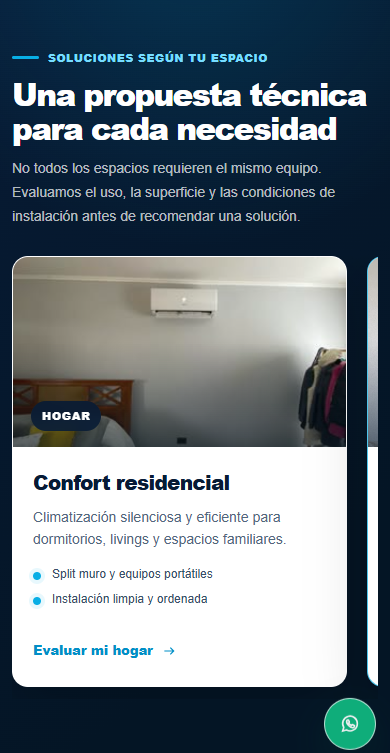
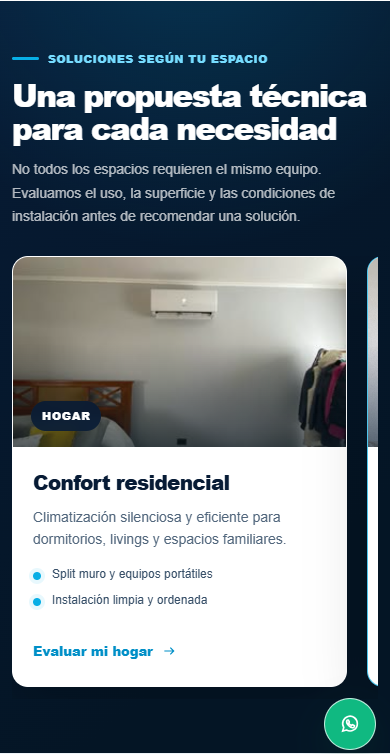
feat: add interactive service catalog tabs with custom imagery and mobile QA suites

diff --git a/dist/index.html b/dist/index.html
@@ -24,6 +24,9 @@
     <symbol id="i-gear" viewBox="0 0 24 24"><circle cx="12" cy="12" r="3.2"/><path d="M12 2.5v2.2M12 19.3v2.2M21.5 12h-2.2M4.7 12H2.5m16.2-6.7-1.6 1.6M6.9 17.1l-1.6 1.6m13.4 0-1.6-1.6M6.9 6.9 5.3 5.3"/><circle cx="12" cy="12" r="7.1"/></symbol>
     <symbol id="i-wrench" viewBox="0 0 24 24"><path d="M14.7 5.2a5.1 5.1 0 0 0 4.4 6.9L11 20.2a2 2 0 0 1-2.8 0l-4.4-4.4a2 2 0 0 1 0-2.8l8.1-8.1a5.1 5.1 0 0 0 2.8.3Z"/><path d="m5.7 14.3 4 4"/></symbol>
     <symbol id="i-arrows" viewBox="0 0 24 24"><path d="M7 7h13m-4-4 4 4-4 4M17 17H4m4 4-4-4 4-4"/></symbol>
+    <symbol id="i-solar" viewBox="0 0 24 24"><circle cx="18" cy="6" r="2.5"/><path d="M18 1.5v1M18 9.5v1M13.5 6h1M21.5 6h1M14.8 2.8l.7.7M20.5 8.5l.7.7M4 10h12l2 10H2l2-10Zm1.4 3.3h11.2M4.7 16.7h12.6M8 10l-.8 10M12 10v10M16 10l.8 10"/></symbol>
+    <symbol id="i-bolt" viewBox="0 0 24 24"><path d="m13.5 2-8 11h6l-1 9 8-12h-6l1-8Z"/></symbol>
+    <symbol id="i-pump" viewBox="0 0 24 24"><path d="M4 9h10v10H4zM14 12h3.5a2.5 2.5 0 0 1 2.5 2.5V19M7 9V6h4v3M2 13h2M2 17h2M8 13.2c1.2 1.3 1.8 2.2 1.8 3a1.8 1.8 0 0 1-3.6 0c0-.8.6-1.7 1.8-3Z"/></symbol>
     <symbol id="i-arrow" viewBox="0 0 24 24"><path d="M5 12h14m-5-5 5 5-5 5"/></symbol>
     <symbol id="i-menu" viewBox="0 0 24 24"><path d="M4 7h16M4 12h16M4 17h16"/></symbol>
   </svg>
@@ -94,21 +97,55 @@
     <section class="services" id="servicios">
       <div class="wide-shell">
         <div class="compact-heading">
-          <h2>Nuestros servicios</h2><span></span><p>Soluciones completas de climatización, con atención local y profesional.</p>
+          <h2>Nuestros servicios</h2><span></span><p>Soluciones técnicas organizadas por especialidad.</p>
         </div>
-        <div class="services-grid">
-          <a class="service-card" href="https://wa.me/56932630625?text=Hola%20BYN%20Servicios.%20Quisiera%20cotizar%20una%20instalaci%C3%B3n." target="_blank" rel="noopener">
-            <span class="service-icon"><svg><use href="#i-ac"></use></svg></span><span class="service-copy"><strong>Instalación</strong><small>Montaje profesional de equipos en hogares y empresas.</small></span><svg class="card-arrow"><use href="#i-arrow"></use></svg>
-          </a>
-          <a class="service-card" href="https://wa.me/56932630625?text=Hola%20BYN%20Servicios.%20Quisiera%20cotizar%20una%20mantenci%C3%B3n." target="_blank" rel="noopener">
-            <span class="service-icon"><svg><use href="#i-gear"></use></svg></span><span class="service-copy"><strong>Mantención</strong><small>Limpieza y revisión para un funcionamiento eficiente.</small></span><svg class="card-arrow"><use href="#i-arrow"></use></svg>
-          </a>
-          <a class="service-card" href="https://wa.me/56932630625?text=Hola%20BYN%20Servicios.%20Mi%20equipo%20presenta%20una%20falla." target="_blank" rel="noopener">
-            <span class="service-icon"><svg><use href="#i-wrench"></use></svg></span><span class="service-copy"><strong>Reparación</strong><small>Diagnóstico y solución de fallas en aire acondicionado.</small></span><svg class="card-arrow"><use href="#i-arrow"></use></svg>
-          </a>
-          <a class="service-card" href="https://wa.me/56932630625?text=Hola%20BYN%20Servicios.%20Quisiera%20evaluar%20la%20reubicaci%C3%B3n%20de%20un%20equipo." target="_blank" rel="noopener">
-            <span class="service-icon"><svg><use href="#i-arrows"></use></svg></span><span class="service-copy"><strong>Reubicación</strong><small>Traslado seguro e instalación en una nueva ubicación.</small></span><svg class="card-arrow"><use href="#i-arrow"></use></svg>
-          </a>
+        <div class="service-catalog">
+          <div class="service-tabs" role="tablist" aria-label="Áreas de servicio">
+            <button class="service-tab is-active" id="service-tab-clima" type="button" role="tab" aria-selected="true" aria-controls="service-panel-clima" data-service-category="clima"><svg aria-hidden="true"><use href="#i-ac"></use></svg>Aire acondicionado</button>
+            <button class="service-tab" id="service-tab-solar" type="button" role="tab" aria-selected="false" aria-controls="service-panel-solar" data-service-category="solar" tabindex="-1"><svg aria-hidden="true"><use href="#i-solar"></use></svg>Paneles solares</button>
+            <button class="service-tab" id="service-tab-electricidad" type="button" role="tab" aria-selected="false" aria-controls="service-panel-electricidad" data-service-category="electricidad" tabindex="-1"><svg aria-hidden="true"><use href="#i-bolt"></use></svg>Sistemas eléctricos</button>
+            <button class="service-tab" id="service-tab-bombas" type="button" role="tab" aria-selected="false" aria-controls="service-panel-bombas" data-service-category="bombas" tabindex="-1"><svg aria-hidden="true"><use href="#i-pump"></use></svg>Bombas y equipos</button>
+          </div>
+
+          <div class="service-panel is-active" id="service-panel-clima" role="tabpanel" aria-labelledby="service-tab-clima" data-service-panel="clima">
+            <div class="service-panel-heading"><div><span class="service-panel-icon"><svg aria-hidden="true"><use href="#i-ac"></use></svg></span><span><strong>Aire acondicionado</strong><small>Confort eficiente para hogares, comercios e industria.</small></span></div><a href="https://wa.me/56932630625?text=Hola%20BYN%20Servicios.%20Necesito%20asesor%C3%ADa%20en%20aire%20acondicionado." target="_blank" rel="noopener">Consultar esta área <svg aria-hidden="true"><use href="#i-arrow"></use></svg></a></div>
+            <div class="services-grid">
+              <a class="service-card" href="https://wa.me/56932630625?text=Hola%20BYN%20Servicios.%20Quisiera%20cotizar%20una%20instalaci%C3%B3n%20de%20aire%20acondicionado." target="_blank" rel="noopener"><span class="service-icon"><svg><use href="#i-ac"></use></svg></span><span class="service-copy"><strong>Instalación</strong><small>Montaje profesional de equipos en hogares y empresas.</small></span><svg class="card-arrow"><use href="#i-arrow"></use></svg></a>
+              <a class="service-card" href="https://wa.me/56932630625?text=Hola%20BYN%20Servicios.%20Quisiera%20cotizar%20una%20mantenci%C3%B3n%20de%20aire%20acondicionado." target="_blank" rel="noopener"><span class="service-icon"><svg><use href="#i-gear"></use></svg></span><span class="service-copy"><strong>Mantención</strong><small>Limpieza y revisión para un funcionamiento eficiente.</small></span><svg class="card-arrow"><use href="#i-arrow"></use></svg></a>
+              <a class="service-card" href="https://wa.me/56932630625?text=Hola%20BYN%20Servicios.%20Mi%20aire%20acondicionado%20presenta%20una%20falla." target="_blank" rel="noopener"><span class="service-icon"><svg><use href="#i-wrench"></use></svg></span><span class="service-copy"><strong>Reparación</strong><small>Diagnóstico y solución de fallas en equipos de climatización.</small></span><svg class="card-arrow"><use href="#i-arrow"></use></svg></a>
+              <a class="service-card" href="https://wa.me/56932630625?text=Hola%20BYN%20Servicios.%20Quisiera%20reubicar%20un%20equipo%20de%20aire%20acondicionado." target="_blank" rel="noopener"><span class="service-icon"><svg><use href="#i-arrows"></use></svg></span><span class="service-copy"><strong>Reubicación</strong><small>Traslado seguro e instalación en una nueva ubicación.</small></span><svg class="card-arrow"><use href="#i-arrow"></use></svg></a>
+            </div>
+          </div>
+
+          <div class="service-panel" id="service-panel-solar" role="tabpanel" aria-labelledby="service-tab-solar" data-service-panel="solar" hidden>
+            <div class="service-panel-heading"><div><span class="service-panel-icon"><svg aria-hidden="true"><use href="#i-solar"></use></svg></span><span><strong>Paneles solares</strong><small>Soluciones para aprovechar y mantener tu sistema de energía solar.</small></span></div><a href="https://wa.me/56932630625?text=Hola%20BYN%20Servicios.%20Necesito%20asesor%C3%ADa%20en%20paneles%20solares." target="_blank" rel="noopener">Consultar esta área <svg aria-hidden="true"><use href="#i-arrow"></use></svg></a></div>
+            <div class="services-grid">
+              <a class="service-card" href="https://wa.me/56932630625?text=Hola%20BYN%20Servicios.%20Quisiera%20cotizar%20la%20instalaci%C3%B3n%20de%20paneles%20solares." target="_blank" rel="noopener"><span class="service-icon"><svg><use href="#i-solar"></use></svg></span><span class="service-copy"><strong>Instalación solar</strong><small>Montaje del sistema según las condiciones de cada espacio.</small></span><svg class="card-arrow"><use href="#i-arrow"></use></svg></a>
+              <a class="service-card" href="https://wa.me/56932630625?text=Hola%20BYN%20Servicios.%20Quisiera%20cotizar%20mantenci%C3%B3n%20de%20paneles%20solares." target="_blank" rel="noopener"><span class="service-icon"><svg><use href="#i-gear"></use></svg></span><span class="service-copy"><strong>Mantención</strong><small>Limpieza, inspección y cuidado preventivo de paneles.</small></span><svg class="card-arrow"><use href="#i-arrow"></use></svg></a>
+              <a class="service-card" href="https://wa.me/56932630625?text=Hola%20BYN%20Servicios.%20Necesito%20revisar%20el%20rendimiento%20de%20mi%20sistema%20solar." target="_blank" rel="noopener"><span class="service-icon"><svg><use href="#i-bolt"></use></svg></span><span class="service-copy"><strong>Revisión de rendimiento</strong><small>Evaluación del funcionamiento y desempeño del sistema.</small></span><svg class="card-arrow"><use href="#i-arrow"></use></svg></a>
+              <a class="service-card" href="https://wa.me/56932630625?text=Hola%20BYN%20Servicios.%20Mi%20sistema%20solar%20presenta%20una%20falla." target="_blank" rel="noopener"><span class="service-icon"><svg><use href="#i-wrench"></use></svg></span><span class="service-copy"><strong>Diagnóstico</strong><small>Revisión técnica para detectar fallas y puntos de mejora.</small></span><svg class="card-arrow"><use href="#i-arrow"></use></svg></a>
+            </div>
+          </div>
+
+          <div class="service-panel" id="service-panel-electricidad" role="tabpanel" aria-labelledby="service-tab-electricidad" data-service-panel="electricidad" hidden>
+            <div class="service-panel-heading"><div><span class="service-panel-icon"><svg aria-hidden="true"><use href="#i-bolt"></use></svg></span><span><strong>Sistemas eléctricos</strong><small>Instalaciones y mantenimiento eléctrico para viviendas y empresas.</small></span></div><a href="https://wa.me/56932630625?text=Hola%20BYN%20Servicios.%20Necesito%20asesor%C3%ADa%20en%20un%20sistema%20el%C3%A9ctrico." target="_blank" rel="noopener">Consultar esta área <svg aria-hidden="true"><use href="#i-arrow"></use></svg></a></div>
+            <div class="services-grid">
+              <a class="service-card" href="https://wa.me/56932630625?text=Hola%20BYN%20Servicios.%20Necesito%20un%20servicio%20de%20electricidad%20domiciliaria." target="_blank" rel="noopener"><span class="service-icon"><svg><use href="#i-home"></use></svg></span><span class="service-copy"><strong>Electricidad domiciliaria</strong><small>Soluciones seguras para viviendas y espacios residenciales.</small></span><svg class="card-arrow"><use href="#i-arrow"></use></svg></a>
+              <a class="service-card" href="https://wa.me/56932630625?text=Hola%20BYN%20Servicios.%20Necesito%20un%20servicio%20de%20electricidad%20industrial." target="_blank" rel="noopener"><span class="service-icon"><svg><use href="#i-bolt"></use></svg></span><span class="service-copy"><strong>Electricidad industrial</strong><small>Soluciones para instalaciones comerciales e industriales.</small></span><svg class="card-arrow"><use href="#i-arrow"></use></svg></a>
+              <a class="service-card" href="https://wa.me/56932630625?text=Hola%20BYN%20Servicios.%20Necesito%20revisar%20o%20instalar%20un%20tablero%20el%C3%A9ctrico." target="_blank" rel="noopener"><span class="service-icon"><svg><use href="#i-gear"></use></svg></span><span class="service-copy"><strong>Tableros eléctricos</strong><small>Instalación, ordenamiento, revisión y mantenimiento.</small></span><svg class="card-arrow"><use href="#i-arrow"></use></svg></a>
+              <a class="service-card" href="https://wa.me/56932630625?text=Hola%20BYN%20Servicios.%20Necesito%20diagnosticar%20una%20falla%20el%C3%A9ctrica." target="_blank" rel="noopener"><span class="service-icon"><svg><use href="#i-wrench"></use></svg></span><span class="service-copy"><strong>Diagnóstico y reparación</strong><small>Detección y solución de fallas en la instalación eléctrica.</small></span><svg class="card-arrow"><use href="#i-arrow"></use></svg></a>
+            </div>
+          </div>
+
+          <div class="service-panel" id="service-panel-bombas" role="tabpanel" aria-labelledby="service-tab-bombas" data-service-panel="bombas" hidden>
+            <div class="service-panel-heading"><div><span class="service-panel-icon"><svg aria-hidden="true"><use href="#i-pump"></use></svg></span><span><strong>Bombas y equipos</strong><small>Revisión técnica para cuidar la continuidad de operación.</small></span></div><a href="https://wa.me/56932630625?text=Hola%20BYN%20Servicios.%20Necesito%20asesor%C3%ADa%20para%20una%20bomba%20o%20equipo." target="_blank" rel="noopener">Consultar esta área <svg aria-hidden="true"><use href="#i-arrow"></use></svg></a></div>
+            <div class="services-grid">
+              <a class="service-card" href="https://wa.me/56932630625?text=Hola%20BYN%20Servicios.%20Quisiera%20cotizar%20mantenci%C3%B3n%20de%20una%20bomba." target="_blank" rel="noopener"><span class="service-icon"><svg><use href="#i-gear"></use></svg></span><span class="service-copy"><strong>Mantención de bombas</strong><small>Revisión preventiva para favorecer una operación estable.</small></span><svg class="card-arrow"><use href="#i-arrow"></use></svg></a>
+              <a class="service-card" href="https://wa.me/56932630625?text=Hola%20BYN%20Servicios.%20Necesito%20reparar%20una%20bomba." target="_blank" rel="noopener"><span class="service-icon"><svg><use href="#i-wrench"></use></svg></span><span class="service-copy"><strong>Reparación de bombas</strong><small>Diagnóstico técnico y solución de fallas operativas.</small></span><svg class="card-arrow"><use href="#i-arrow"></use></svg></a>
+              <a class="service-card" href="https://wa.me/56932630625?text=Hola%20BYN%20Servicios.%20Necesito%20revisar%20un%20motor%20o%20equipo%20el%C3%A9ctrico." target="_blank" rel="noopener"><span class="service-icon"><svg><use href="#i-bolt"></use></svg></span><span class="service-copy"><strong>Revisión de equipos</strong><small>Inspección eléctrica y mecánica de componentes asociados.</small></span><svg class="card-arrow"><use href="#i-arrow"></use></svg></a>
+              <a class="service-card" href="https://wa.me/56932630625?text=Hola%20BYN%20Servicios.%20Necesito%20la%20puesta%20en%20marcha%20de%20una%20bomba%20o%20equipo." target="_blank" rel="noopener"><span class="service-icon"><svg><use href="#i-pump"></use></svg></span><span class="service-copy"><strong>Puesta en marcha</strong><small>Comprobación del funcionamiento antes de iniciar la operación.</small></span><svg class="card-arrow"><use href="#i-arrow"></use></svg></a>
+            </div>
+          </div>
         </div>
       </div>
     </section>

diff --git a/dist/styles.css b/dist/styles.css
@@ -87,20 +87,67 @@ h1 em { color: var(--cyan); font-style: normal; }
 .hero .overline { margin-bottom: 20px; color: #63d8ff; font-size: 13px; letter-spacing: .13em; }
 .hero .overline > span { width: 42px; height: 4px; box-shadow: 0 0 15px rgba(231,25,114,.38); }
 
-.services { padding: 32px 0 36px; border-top: 1px solid #f1f5f7; background: #fff; }
-.compact-heading { min-height: 32px; margin-bottom: 8px; display: flex; align-items: center; gap: 13px; }
+.services { padding: 42px 0 46px; border-top: 1px solid #f1f5f7; background: #fff; }
+.compact-heading { min-height: 32px; margin-bottom: 20px; display: flex; align-items: center; gap: 13px; }
 .compact-heading h2 { margin: 0; color: var(--navy); font-size: 22px; font-weight: 800; letter-spacing: -.035em; line-height: 1.1; white-space: nowrap; }
 .compact-heading > span { width: 38px; height: 2px; flex: 0 0 auto; background: var(--cyan); }
 .compact-heading > p { margin: 1px 0 0; color: #72849a; font-size: 9.5px; }
+.service-catalog { overflow: hidden; border: 1px solid #dfe9ef; border-radius: 16px; background: #f8fbfd; box-shadow: 0 12px 30px rgba(20,58,85,.055); }
+.service-tabs { padding: 8px; display: grid; grid-template-columns: repeat(4, minmax(0, 1fr)); gap: 7px; background: #eef5f9; }
+.service-tab { min-width: 0; min-height: 48px; padding: 10px 14px; border: 0; border-radius: 10px; display: flex; align-items: center; justify-content: center; gap: 9px; color: #496176; background: transparent; font: 700 12px/1.2 Manrope, sans-serif; cursor: pointer; transition: color .18s ease, background .18s ease, box-shadow .18s ease; }
+.service-tab svg { width: 21px; height: 21px; flex: 0 0 auto; fill: none; stroke: currentColor; stroke-width: 1.8; stroke-linecap: round; stroke-linejoin: round; }
+.service-tab:hover { color: var(--navy); background: rgba(255,255,255,.72); }
+.service-tab.is-active { color: #fff; background: var(--navy); box-shadow: 0 7px 17px rgba(7,27,53,.2); }
+.service-panel { padding: 20px; background: #fff; }
+.service-panel[hidden] { display: none; }
+.service-panel.is-active { animation: service-panel-reveal .34s ease both; }
+.service-panel-heading { margin-bottom: 17px; display: flex; align-items: center; justify-content: space-between; gap: 24px; }
+.service-panel-heading > div { min-width: 0; display: flex; align-items: center; gap: 12px; }
+.service-panel-icon { width: 40px; height: 40px; flex: 0 0 auto; border-radius: 11px; display: grid; place-items: center; color: var(--cyan); background: var(--cyan-soft); }
+.service-panel-icon svg { width: 23px; height: 23px; fill: none; stroke: currentColor; stroke-width: 1.8; stroke-linecap: round; stroke-linejoin: round; }
+.service-panel-heading > div > span:last-child { min-width: 0; display: grid; }
+.service-panel-heading strong { color: var(--navy); font-size: 16px; font-weight: 800; letter-spacing: -.02em; }
+.service-panel-heading small { margin-top: 2px; color: var(--muted); font-size: 11px; line-height: 1.4; }
+.service-panel-heading > a { min-height: 38px; padding: 8px 13px; flex: 0 0 auto; border: 1px solid #d5e3eb; border-radius: 8px; display: flex; align-items: center; gap: 7px; color: var(--navy); background: #fff; font-size: 10.5px; font-weight: 800; transition: border-color .18s ease, color .18s ease; }
+.service-panel-heading > a:hover { border-color: var(--cyan); color: var(--cyan-dark); }
+.service-panel-heading > a svg { width: 14px; height: 14px; fill: none; stroke: currentColor; stroke-width: 1.8; stroke-linecap: round; stroke-linejoin: round; }
 .services-grid { display: grid; grid-template-columns: repeat(4, 1fr); gap: 18px; }
-.service-card { min-height: 96px; padding: 16px 16px; border: 1px solid var(--line); border-radius: 11px; display: flex; align-items: center; gap: 15px; background: #fff; box-shadow: 0 6px 17px rgba(20,58,85,.035); transition: transform .18s ease, border-color .18s ease, box-shadow .18s ease; }
-.service-card:hover { border-color: rgba(8,174,229,.45); box-shadow: 0 12px 25px rgba(20,58,85,.09); transform: translateY(-3px); }
-.service-icon { width: 52px; height: 52px; flex: 0 0 auto; border-radius: 50%; display: grid; place-items: center; color: var(--cyan); background: var(--cyan-soft); }
-.service-icon svg { width: 28px; height: 28px; fill: none; stroke: currentColor; stroke-width: 1.75; stroke-linecap: round; stroke-linejoin: round; }
-.service-copy { min-width: 0; display: grid; }
-.service-copy strong { font-size: 14px; font-weight: 800; }
-.service-copy small { margin-top: 4px; color: var(--muted); font-size: 9.5px; line-height: 1.4; }
-.card-arrow { width: 16px; height: 16px; margin-left: auto; flex: 0 0 auto; fill: none; stroke: #9fb0bf; stroke-width: 1.6; stroke-linecap: round; stroke-linejoin: round; }
+.service-card { position: relative; min-height: 270px; padding: 174px 17px 18px; border: 1px solid var(--line); border-radius: 13px; display: flex; align-items: flex-start; gap: 12px; overflow: hidden; background: #fff; box-shadow: 0 7px 20px rgba(20,58,85,.055); transition: transform .24s ease, border-color .24s ease, box-shadow .24s ease; }
+.service-card::before { content: ""; position: absolute; z-index: 0; top: 0; right: 0; left: 0; height: 152px; background-position: center; background-size: cover; transform: scale(1.001); transition: transform .5s cubic-bezier(.2,.7,.2,1), filter .3s ease; }
+.service-card::after { content: ""; position: absolute; z-index: 1; top: 100px; right: 0; left: 0; height: 53px; pointer-events: none; background: linear-gradient(180deg, transparent, rgba(3,20,38,.3)); }
+.service-card:hover { border-color: rgba(8,174,229,.5); box-shadow: 0 16px 32px rgba(20,58,85,.13); transform: translateY(-5px); }
+.service-card:hover::before { transform: scale(1.055); filter: saturate(1.04); }
+.service-icon { position: absolute; z-index: 2; top: 128px; left: 16px; width: 47px; height: 47px; flex: 0 0 auto; border: 3px solid #fff; border-radius: 50%; display: grid; place-items: center; color: var(--cyan); background: var(--cyan-soft); box-shadow: 0 6px 16px rgba(7,27,53,.15); }
+.service-icon svg { width: 24px; height: 24px; fill: none; stroke: currentColor; stroke-width: 1.75; stroke-linecap: round; stroke-linejoin: round; }
+.service-copy { min-width: 0; padding-right: 13px; display: grid; }
+.service-copy strong { color: var(--navy); font-size: 15px; font-weight: 800; letter-spacing: -.02em; line-height: 1.25; }
+.service-copy small { margin-top: 6px; color: var(--muted); font-size: 11.5px; line-height: 1.48; }
+.card-arrow { position: absolute; right: 15px; bottom: 18px; width: 16px; height: 16px; flex: 0 0 auto; fill: none; stroke: #9fb0bf; stroke-width: 1.6; stroke-linecap: round; stroke-linejoin: round; transition: stroke .2s ease, transform .2s ease; }
+.service-card:hover .card-arrow { stroke: var(--cyan); transform: translateX(3px); }
+.service-panel.is-active .service-card { animation: service-card-rise .38s ease both; }
+.service-panel.is-active .service-card:nth-child(2) { animation-delay: .055s; }
+.service-panel.is-active .service-card:nth-child(3) { animation-delay: .11s; }
+.service-panel.is-active .service-card:nth-child(4) { animation-delay: .165s; }
+
+[data-service-panel="clima"] .service-card:nth-child(1)::before { background-image: url("assets/servicio-clima-instalacion.webp"); }
+[data-service-panel="clima"] .service-card:nth-child(2)::before { background-image: url("assets/servicio-clima-mantencion.webp"); }
+[data-service-panel="clima"] .service-card:nth-child(3)::before { background-image: url("assets/servicio-clima-reparacion.webp"); }
+[data-service-panel="clima"] .service-card:nth-child(4)::before { background-image: url("assets/servicio-clima-reubicacion.webp"); }
+[data-service-panel="solar"] .service-card:nth-child(1)::before { background-image: url("assets/servicio-solar-instalacion.webp"); }
+[data-service-panel="solar"] .service-card:nth-child(2)::before { background-image: url("assets/servicio-solar-mantencion.webp"); }
+[data-service-panel="solar"] .service-card:nth-child(3)::before { background-image: url("assets/servicio-solar-rendimiento.webp"); }
+[data-service-panel="solar"] .service-card:nth-child(4)::before { background-image: url("assets/servicio-solar-diagnostico.webp"); }
+[data-service-panel="electricidad"] .service-card:nth-child(1)::before { background-image: url("assets/servicio-electrico-domiciliario.webp"); }
+[data-service-panel="electricidad"] .service-card:nth-child(2)::before { background-image: url("assets/servicio-electrico-industrial.webp"); }
+[data-service-panel="electricidad"] .service-card:nth-child(3)::before { background-image: url("assets/servicio-electrico-tableros.webp"); }
+[data-service-panel="electricidad"] .service-card:nth-child(4)::before { background-image: url("assets/servicio-electrico-diagnostico.webp"); }
+[data-service-panel="bombas"] .service-card:nth-child(1)::before { background-image: url("assets/servicio-bomba-mantencion.webp"); }
+[data-service-panel="bombas"] .service-card:nth-child(2)::before { background-image: url("assets/servicio-bomba-reparacion.webp"); }
+[data-service-panel="bombas"] .service-card:nth-child(3)::before { background-image: url("assets/servicio-bomba-revision.webp"); }
+[data-service-panel="bombas"] .service-card:nth-child(4)::before { background-image: url("assets/servicio-bomba-puesta-marcha.webp"); }
+
+@keyframes service-panel-reveal { from { opacity: 0; transform: translateY(7px); } to { opacity: 1; transform: none; } }
+@keyframes service-card-rise { from { opacity: 0; transform: translateY(9px); } to { opacity: 1; transform: none; } }
 
 .equipment { padding: 70px 0 76px; border-top: 1px solid #edf3f7; background: linear-gradient(180deg, #f6fbfe, #fff); }
 .equipment-heading, .showcase-heading { margin-bottom: 31px; display: flex; align-items: end; justify-content: space-between; gap: 50px; }
@@ -364,7 +411,8 @@ blockquote footer { font-size: 12px; }
   .trust-row { grid-template-columns: 1fr 1fr; }
   .trust-row li:last-child { display: none; }
   .services-grid { grid-template-columns: repeat(2, 1fr); }
-  .service-card { min-height: 88px; }
+  .service-card { min-height: 258px; }
+  .service-tabs { grid-template-columns: repeat(2, 1fr); }
   .brand-panel { grid-template-columns: 1fr; }
   .brand-grid { --brand-width: 120px; }
   .product-grid { grid-template-columns: repeat(3, 1fr); }
@@ -397,7 +445,7 @@ blockquote footer { font-size: 12px; }
   .hero h1 { color: #fff; font-size: clamp(46px, 9vw, 58px); }
   .hero-lead { max-width: 610px; color: rgba(237,247,255,.82); }
   .hero-media { position: relative; order: 2; inset: auto; width: min(calc(100% - 32px), 680px); height: auto; aspect-ratio: 16 / 9; margin-inline: auto; border: 1px solid rgba(255,255,255,.16); border-radius: 14px; }
-  .services { padding: 30px 0; }
+  .services { padding: 34px 0 38px; }
   .solutions { padding: 58px 0 62px; }
   .solution-grid { padding-bottom: 12px; grid-template-columns: none; grid-auto-flow: column; grid-auto-columns: min(72vw, 370px); overflow-x: auto; overscroll-behavior-inline: contain; scroll-snap-type: inline mandatory; scrollbar-width: thin; }
   .solution-card { scroll-snap-align: start; }
@@ -451,14 +499,31 @@ blockquote footer { font-size: 12px; }
   .trust-row small { display: none; }
   .hero-media { width: min(calc(100% - 24px), 500px); height: auto; aspect-ratio: 16 / 9; border-radius: 12px; }
   .hero-media > video, .hero-media > img { object-position: center; }
-  .services { padding: 26px 0 29px; }
+  .services { padding: 29px 0 34px; }
+  .services .compact-heading { margin-bottom: 17px; }
+  .service-catalog { margin-inline: -2px; border-radius: 14px; }
+  .service-tabs { padding: 7px; grid-template-columns: none; grid-auto-flow: column; grid-auto-columns: max-content; justify-content: start; gap: 6px; overflow-x: auto; overscroll-behavior-inline: contain; scrollbar-width: none; }
+  .service-tabs::-webkit-scrollbar { display: none; }
+  .service-tab { min-height: 44px; padding: 9px 12px; font-size: 12px; white-space: nowrap; }
+  .service-tab svg { width: 19px; height: 19px; }
+  .service-panel { padding: 16px 10px 10px; }
+  .service-panel-heading { margin: 0 4px 15px; align-items: flex-start; }
+  .service-panel-heading > div { gap: 10px; }
+  .service-panel-icon { width: 38px; height: 38px; }
+  .service-panel-heading strong { font-size: 15px; }
+  .service-panel-heading small { max-width: 220px; font-size: 11.5px; }
+  .service-panel-heading > a { width: 38px; height: 38px; min-height: 38px; padding: 0; border-radius: 50%; justify-content: center; font-size: 0; }
+  .service-panel-heading > a svg { width: 17px; height: 17px; }
   .services-grid { grid-template-columns: repeat(2, minmax(0, 1fr)); gap: 10px; }
-  .service-card { position: relative; min-height: 174px; padding: 15px 13px; align-items: flex-start; flex-direction: column; gap: 11px; }
-  .service-icon { width: 44px; height: 44px; }
-  .service-icon svg { width: 24px; height: 24px; }
+  .service-card { min-height: 265px; padding: 124px 12px 15px; display: block; }
+  .service-card::before { height: 103px; }
+  .service-card::after { top: 65px; height: 39px; }
+  .service-icon { top: 82px; left: 11px; width: 40px; height: 40px; }
+  .service-icon svg { width: 21px; height: 21px; }
+  .service-copy { padding-right: 8px; }
   .service-copy strong { font-size: 13px; line-height: 1.25; }
   .service-copy small { font-size: 11.5px; line-height: 1.42; }
-  .service-card .card-arrow { position: absolute; top: 29px; right: 14px; }
+  .service-card .card-arrow { top: auto; right: 12px; bottom: 13px; }
   .solutions { padding: 50px 0 54px; }
   .centered-intro { text-align: left; }
   .centered-intro .overline { justify-content: flex-start; }

diff --git a/dist/script.js b/dist/script.js
@@ -48,6 +48,51 @@ window.addEventListener('resize', () => {
   if (window.innerWidth > 800 && menuButton.getAttribute('aria-expanded') === 'true') setMenu(false);
 });
 
+const serviceTabs = [...document.querySelectorAll('.service-tab[data-service-category]')];
+const servicePanels = [...document.querySelectorAll('.service-panel[data-service-panel]')];
+
+function showServiceCategory(category, focusTab = false, userInitiated = false) {
+  serviceTabs.forEach(tab => {
+    const active = tab.dataset.serviceCategory === category;
+    tab.classList.toggle('is-active', active);
+    tab.setAttribute('aria-selected', String(active));
+    tab.tabIndex = active ? 0 : -1;
+    if (active && focusTab) tab.focus();
+  });
+
+  servicePanels.forEach(panel => {
+    const active = panel.dataset.servicePanel === category;
+    panel.hidden = !active;
+    panel.classList.toggle('is-active', active);
+  });
+
+  if (userInitiated) {
+    const activeTab = serviceTabs.find(tab => tab.dataset.serviceCategory === category);
+    const reducedMotion = window.matchMedia('(prefers-reduced-motion: reduce)').matches;
+    activeTab?.scrollIntoView({
+      behavior: reducedMotion ? 'auto' : 'smooth',
+      block: 'nearest',
+      inline: 'center'
+    });
+  }
+}
+
+serviceTabs.forEach((tab, index) => {
+  tab.addEventListener('click', () => showServiceCategory(tab.dataset.serviceCategory, false, true));
+  tab.addEventListener('keydown', event => {
+    if (!['ArrowLeft', 'ArrowRight', 'Home', 'End'].includes(event.key)) return;
+    event.preventDefault();
+    let nextIndex = index;
+    if (event.key === 'ArrowRight') nextIndex = (index + 1) % serviceTabs.length;
+    if (event.key === 'ArrowLeft') nextIndex = (index - 1 + serviceTabs.length) % serviceTabs.length;
+    if (event.key === 'Home') nextIndex = 0;
+    if (event.key === 'End') nextIndex = serviceTabs.length - 1;
+    showServiceCategory(serviceTabs[nextIndex].dataset.serviceCategory, true, true);
+  });
+});
+
+if (serviceTabs.length) showServiceCategory(serviceTabs[0].dataset.serviceCategory);
+
 const catalogTabs = [...document.querySelectorAll('.catalog-tab')];
 const productCards = [...document.querySelectorAll('.product-card[data-category]')];
 const catalogStatus = document.querySelector('.catalog-status');

diff --git a/service-image-prompts.md b/service-image-prompts.md
@@ -1,0 +1,35 @@
+# Prompts de imágenes para tarjetas de servicios
+
+Modo utilizado: generador de imágenes integrado. Caso de uso común: `photorealistic-natural`.
+
+## Dirección visual compartida
+
+Fotografía horizontal 3:2 para tarjeta web, estilo documental profesional y fotorrealista, contexto chileno, técnicos y herramientas creíbles, composición centrada apta para recorte responsive, luz natural o técnica limpia, materiales realistas, sin textos superpuestos, sin marcas de agua, sin riesgos laborales ni anatomía distorsionada. El logo BYN se usa como parche pequeño y fiel únicamente en una imagen por categoría.
+
+## Aire acondicionado
+
+1. Técnico BYN instalando un split blanco en un living contemporáneo.
+2. Mantención preventiva de una unidad interior abierta, limpiando filtro y serpentín.
+3. Diagnóstico de condensadora exterior con multímetro y manómetros.
+4. Dos técnicos trasladando de manera segura una unidad interior protegida.
+
+## Paneles solares
+
+1. Técnico BYN instalando un panel fotovoltaico en una techumbre chilena con arnés.
+2. Limpieza preventiva profesional de paneles en una cubierta comercial.
+3. Revisión de rendimiento junto al inversor mediante pinza amperimétrica y tableta.
+4. Diagnóstico térmico de un arreglo fotovoltaico mediante cámara especializada.
+
+## Sistemas eléctricos
+
+1. Electricista BYN modernizando un tablero residencial y ordenando sus circuitos.
+2. Electricista industrial midiendo un gabinete trifásico con protección personal.
+3. Armado meticuloso de un tablero de distribución con cableado organizado.
+4. Diagnóstico de una falla mediante multímetro y cámara térmica.
+
+## Bombas y equipos
+
+1. Técnico BYN realizando mantención a una bomba de circulación de acero inoxidable.
+2. Reparación en banco de una bomba centrífuga y sustitución de su sello mecánico.
+3. Revisión de vibración y estado eléctrico de un conjunto motor-bomba.
+4. Puesta en marcha de un sistema doble de presurización en una sala técnica terminada.
